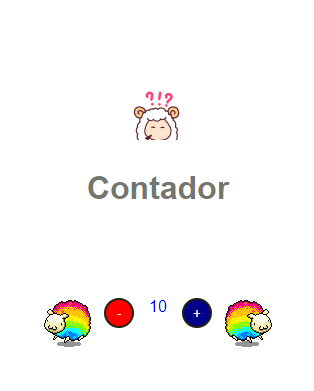
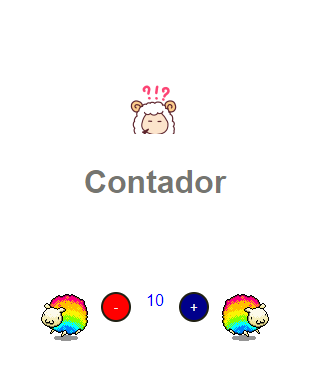
reabilitando_botton

diff --git a/Contador/javascript.js b/Contador/javascript.js
@@ -14,6 +14,10 @@ function increment() {
         document.getElementById("adicionar").disabled = true;
         alert("Valor máximo alcançado.")
     }
+    if(startNumber >= -9) {
+        document.getElementById("subtrair").disabled = false;
+    }
+   
 }
 
 function decrement() {
@@ -29,6 +33,10 @@ function decrement() {
        document.getElementById("subtrair").disabled = true;
        alert("Valor mínimo alcançado.")
    }
+   if(startNumber <=9) {
+    document.getElementById("adicionar").disabled = false;
+   }
+
 }
 
 function contador() {

diff --git a/Contador/style.css b/Contador/style.css
@@ -11,15 +11,15 @@
     align-items: center;
     justify-content: center;
     flex-direction: column;
-    height: 300px;
+    height: 200px;
     min-width: 320px;
     background-color: #fff;
 }
 .atvd {
     display:flex;
     /* margin-top: 0px; */
-    height: 100px;
-    align-items:flex-start;
+    height: 175px;
+    align-items:center;
     justify-content: center;
     min-width: 320px;
     background-color:#fff;
